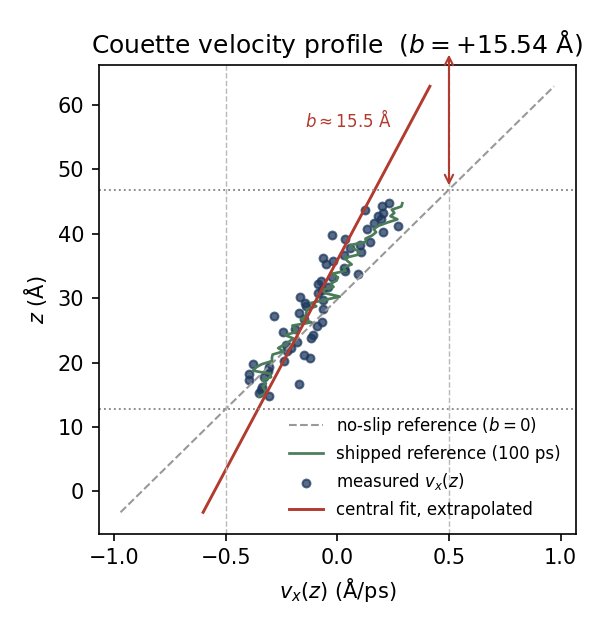
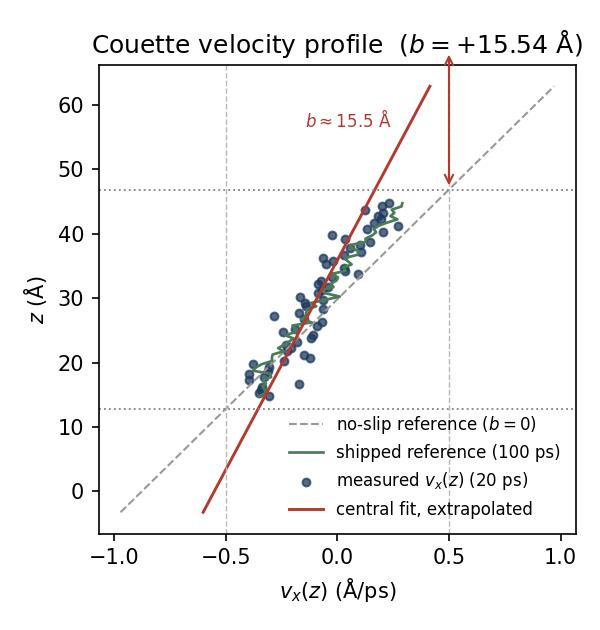
slip figure clarity: label measured data with its run length (20 ps) vs the shipped reference (100 ps); add a 'reading the figure' colour-map to the README; regenerate both slip figures

Changed region(s): [[0.57, 0.6635, 0.93, 0.7841], [0.48, 0.6937, 0.54, 0.7238]]

diff --git a/slip/analyse_slip.py b/slip/analyse_slip.py
@@ -88,7 +88,7 @@ def load_reference(tier):
     return {"par": rpar, "z": z, "vx": vx, "s": s, "c": c, "r2": r2, "b": b, "se_b": se_b}
 
 
-def plot(z, vx, s, c, zfb, zft, vwall, b, ref=None, out="cuw_slip.png"):
+def plot(z, vx, s, c, zfb, zft, vwall, b, ref=None, this_ps=None, out="cuw_slip.png"):
     """Save the velocity profile vx(z) (z vertical, side-on like the channel)
     with the central Couette fit extrapolated to the wall faces, so the slip
     length b reads off as the offset between the fit and the wall speed.
@@ -111,7 +111,8 @@ def plot(z, vx, s, c, zfb, zft, vwall, b, ref=None, out="cuw_slip.png"):
         t_ref = ref["par"]["nprod"] * ref["par"]["dt"]
         ax.plot(ref["vx"], ref["z"], color=GREEN, lw=1.3,
                 label=f"shipped reference ({t_ref:.0f} ps)")
-    ax.scatter(vx, z, s=14, color=BLUE, alpha=0.75, label=r"measured $v_x(z)$")
+    meas_lbl = (r"measured $v_x(z)$ (%.0f ps)" % this_ps) if this_ps else r"measured $v_x(z)$"
+    ax.scatter(vx, z, s=14, color=BLUE, alpha=0.75, label=meas_lbl)
     ax.plot(s * zl + c, zl, color=RED, lw=1.4, label="central fit, extrapolated")
     ax.axhline(zfb, color="#888888", ls=":", lw=0.9)
     ax.axhline(zft, color="#888888", ls=":", lw=0.9)
@@ -271,7 +272,7 @@ def main():
     if have and overlay is None:
         print(f"      (no shipped reference at eps_sl = {par['eps_sl']:g} eV, "
               f"vwall = {par['vwall']:g} A/ps - the figure shows this run alone)")
-    plot(z, vx, s, c, zfb, zft, vwall, b, ref=overlay)
+    plot(z, vx, s, c, zfb, zft, vwall, b, ref=overlay, this_ps=t_ps)
 
 
 if __name__ == "__main__":

diff --git a/README.md b/README.md
@@ -203,6 +203,17 @@ Stretch sheet 2: slip length
 
 ![Follow: Couette velocity profile with the extrapolated slip fit](figures/cuw_slip_follow.png)
 
+**Reading the figure.** Height z runs up the axis and velocity v_x(z) across it, so
+the plot is side-on like the channel. Four things are drawn: the **blue dots** are
+your measured profile (labelled with this run's length, 20 ps); the **grey dashed**
+line is the no-slip reference, the steeper profile the water would follow if it
+stuck to the walls; the **red** line is the straight-line fit to the central water,
+extrapolated to the wall faces, with the red arrow marking the slip length b where
+it reaches the wall speed; the **green** line is the shipped 100-ps reference
+profile your short run is compared against. A red fit shallower than the grey line
+is positive slip; steeper (the wetting default here) is the pinned first layer, a
+small negative b.
+
 **What you should see.** The slip length b follows from the fitted central slope
 s and the wall geometry. With no slip the profile would reach ±`vwall` exactly at
 the innermost wall planes, spanning 2`vwall` over the face-to-face width h; the